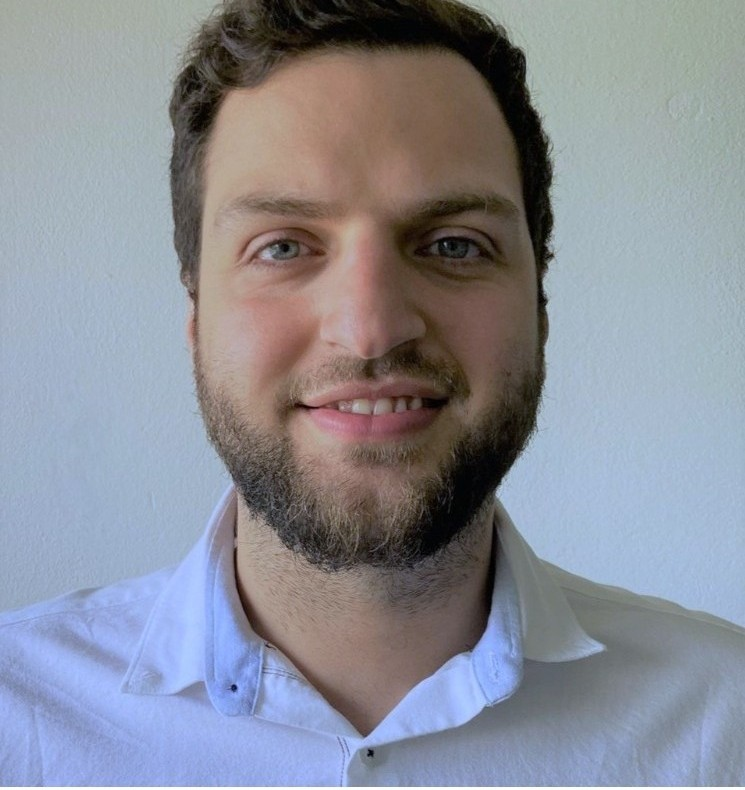
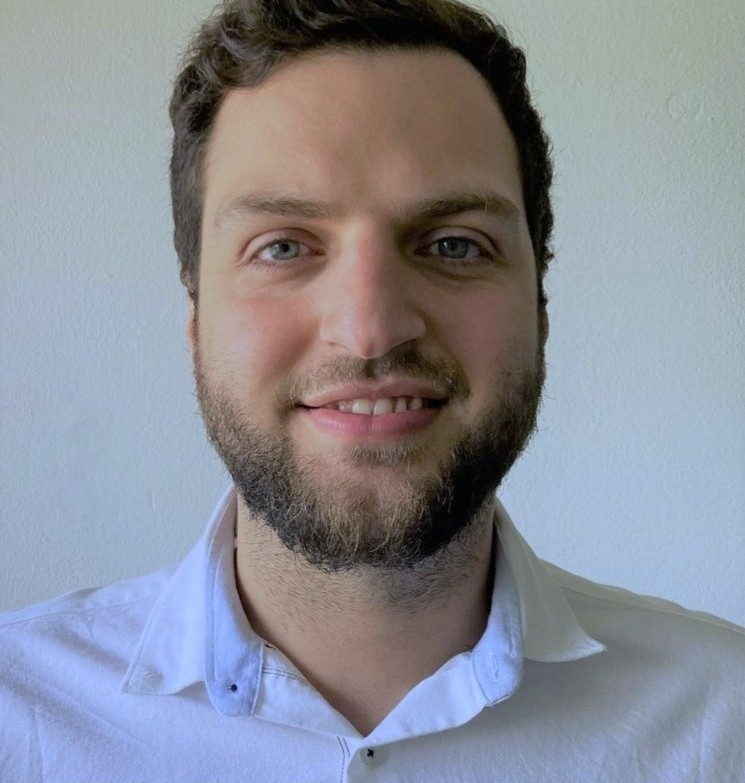
Animacion Hero y tamaño de imagenes

diff --git a/src/styles/App.css b/src/styles/App.css
@@ -68,6 +68,18 @@ button { font-family: inherit; }
   letter-spacing: -0.01em;
 }
 
+.hero-line { display: block; }
+.hero-char {
+  display: inline-block;
+  opacity: 0;
+  transform: translateY(0.12em);
+  animation: charIn 0.5s var(--ease-expo) forwards;
+}
+
+@keyframes charIn {
+  to { opacity: 1; transform: translateY(0); }
+}
+
 /* ===================================================================
    NAVBAR
    =================================================================== */
@@ -82,6 +94,7 @@ button { font-family: inherit; }
   justify-content: space-between;
   color: var(--txt);
   background: var(--paper);
+  border-bottom: 1px solid transparent;
   transition: background 0.45s ease, border-color 0.45s ease, height 0.45s ease;
 }
 .navbar.scrolled {
@@ -214,7 +227,7 @@ button { font-family: inherit; }
   overflow: hidden;
   background: var(--paper);
   color: var(--txt);
-  padding: 7.5rem 0 10.5rem;
+  padding: 7.5rem 0 6rem;
 }
 
 .hero-content {
@@ -249,15 +262,6 @@ button { font-family: inherit; }
   color: var(--ink);
   margin: 2.4rem 0 2.6rem;
   transform: translateY(calc(var(--py, 0px) * 0.12));
-}
-.hero-name-accent { display: block; position: relative; }
-.hero-name-accent::after {
-  content: '✳';
-  font-size: 0.22em;
-  font-weight: 400;
-  color: var(--clay);
-  position: absolute;
-  transform: translate(0.35em, 0.25em);
 }
 
 .hero-bottom {
@@ -373,8 +377,7 @@ button { font-family: inherit; }
 
 .project-card {
   display: grid;
-  grid-template-columns: 1.08fr 0.92fr;
-  /*grid-template-columns: 0.70fr 1.30fr;  Tamaño de imagenes*/
+  grid-template-columns: 0.70fr 1.30fr;  /*Tamaño de imagenes*/
   gap: clamp(2.5rem, 5vw, 4.5rem);
   align-items: center;
   padding: clamp(3rem, 6vw, 4.5rem) 0;
@@ -382,6 +385,7 @@ button { font-family: inherit; }
 }
 .project-card:first-child { border-top: none; padding-top: 0.5rem; }
 .project-card:nth-child(even) .project-plate { order: 2; }
+.project-card:nth-child(even) { grid-template-columns: 1.30fr 0.70fr; }
 
 .project-plate {
   position: relative;
@@ -470,14 +474,13 @@ button { font-family: inherit; }
 .about-text p {
   font-size: 1.03rem;
   line-height: 1.85;
-  color: var(--muted);
+  color: var(--muted-inv);
   margin-bottom: 1.5rem;
 }
 .about-text p:last-child { margin-bottom: 0; }
 .about-text strong {
   font-weight: 600;
   /* color: var(--txt-inv); */
-  color: var(--ink-inv);
 }
 
 .about-photo {
@@ -491,7 +494,7 @@ button { font-family: inherit; }
   aspect-ratio: 4 / 5;
   object-fit: cover;
   filter: grayscale(1) contrast(1.05);
-  outline: 1px solid var(--line-inv);
+  outline: 1px solid var(--line);
   outline-offset: 14px;
   transition: filter 1s var(--ease-expo);
 }
@@ -669,7 +672,7 @@ a.contact-link:hover .contact-link-arrow { opacity: 1; transform: translate(0, 0
 }
 
 @media (max-width: 640px) {
-  .hero { padding: 7rem 0 9.5rem; }
+  .hero { padding: 7rem 0 5rem; }
   .hero-meta { flex-direction: column; gap: 0.4rem; }
   .section-header { flex-wrap: wrap; gap: 0.8rem 1.2rem; }
   .section-rule { display: none; }
@@ -688,4 +691,5 @@ a.contact-link:hover .contact-link-arrow { opacity: 1; transform: translate(0, 0
   .hero-anim { opacity: 1; transform: none; animation: none; }
   .fade-up { opacity: 1; transform: none; }
   .hero h1 { transform: none !important; }
+  .hero-char { opacity: 1; transform: none; animation: none; }
 }

diff --git a/src/components/Hero.jsx b/src/components/Hero.jsx
@@ -1,8 +1,10 @@
 import { useEffect, useRef } from 'react';
 import { useLang } from '../i18n/LanguageContext';
 
+const CHAR_STEP = 0.04; // segundos entre letra y letra
+
 export default function Hero() {
-  const { t } = useLang();
+  const { t, lang } = useLang();
   const sectionRef = useRef(null);
 
   // Parallax sutil del wordmark: expone --py (scroll) como variable CSS
@@ -28,6 +30,18 @@ export default function Hero() {
     };
   }, []);
 
+  // Parte una palabra en letras, cada una con su retraso
+  const renderChars = (word, startIndex) =>
+    Array.from(word).map((char, i) => (
+      <span
+        key={i}
+        className="hero-char"
+        style={{ animationDelay: `${(startIndex + i) * CHAR_STEP}s` }}
+      >
+        {char === ' ' ? '\u00A0' : char}
+      </span>
+    ));
+
   return (
     <section className="hero" id="hero" ref={sectionRef}>
       <div className="hero-content">
@@ -36,8 +50,13 @@ export default function Hero() {
           <p className="hero-loc">{t.footer}</p>
         </div>
 
-        <h1 className="hero-anim hero-anim-2">
-          {t.hero.name} {t.hero.lastName}
+        <h1 key={lang} aria-label={`${t.hero.name} ${t.hero.lastName}`}>
+          <span className="hero-line" aria-hidden="true">
+            {renderChars(t.hero.name, 0)}
+          </span>
+          <span className="hero-line" aria-hidden="true">
+            {renderChars(t.hero.lastName, t.hero.name.length)}
+          </span>
         </h1>
 
         <div className="hero-bottom hero-anim hero-anim-4">
@@ -53,7 +72,6 @@ export default function Hero() {
           </div>
         </div>
       </div>
-
     </section>
   );
 }
